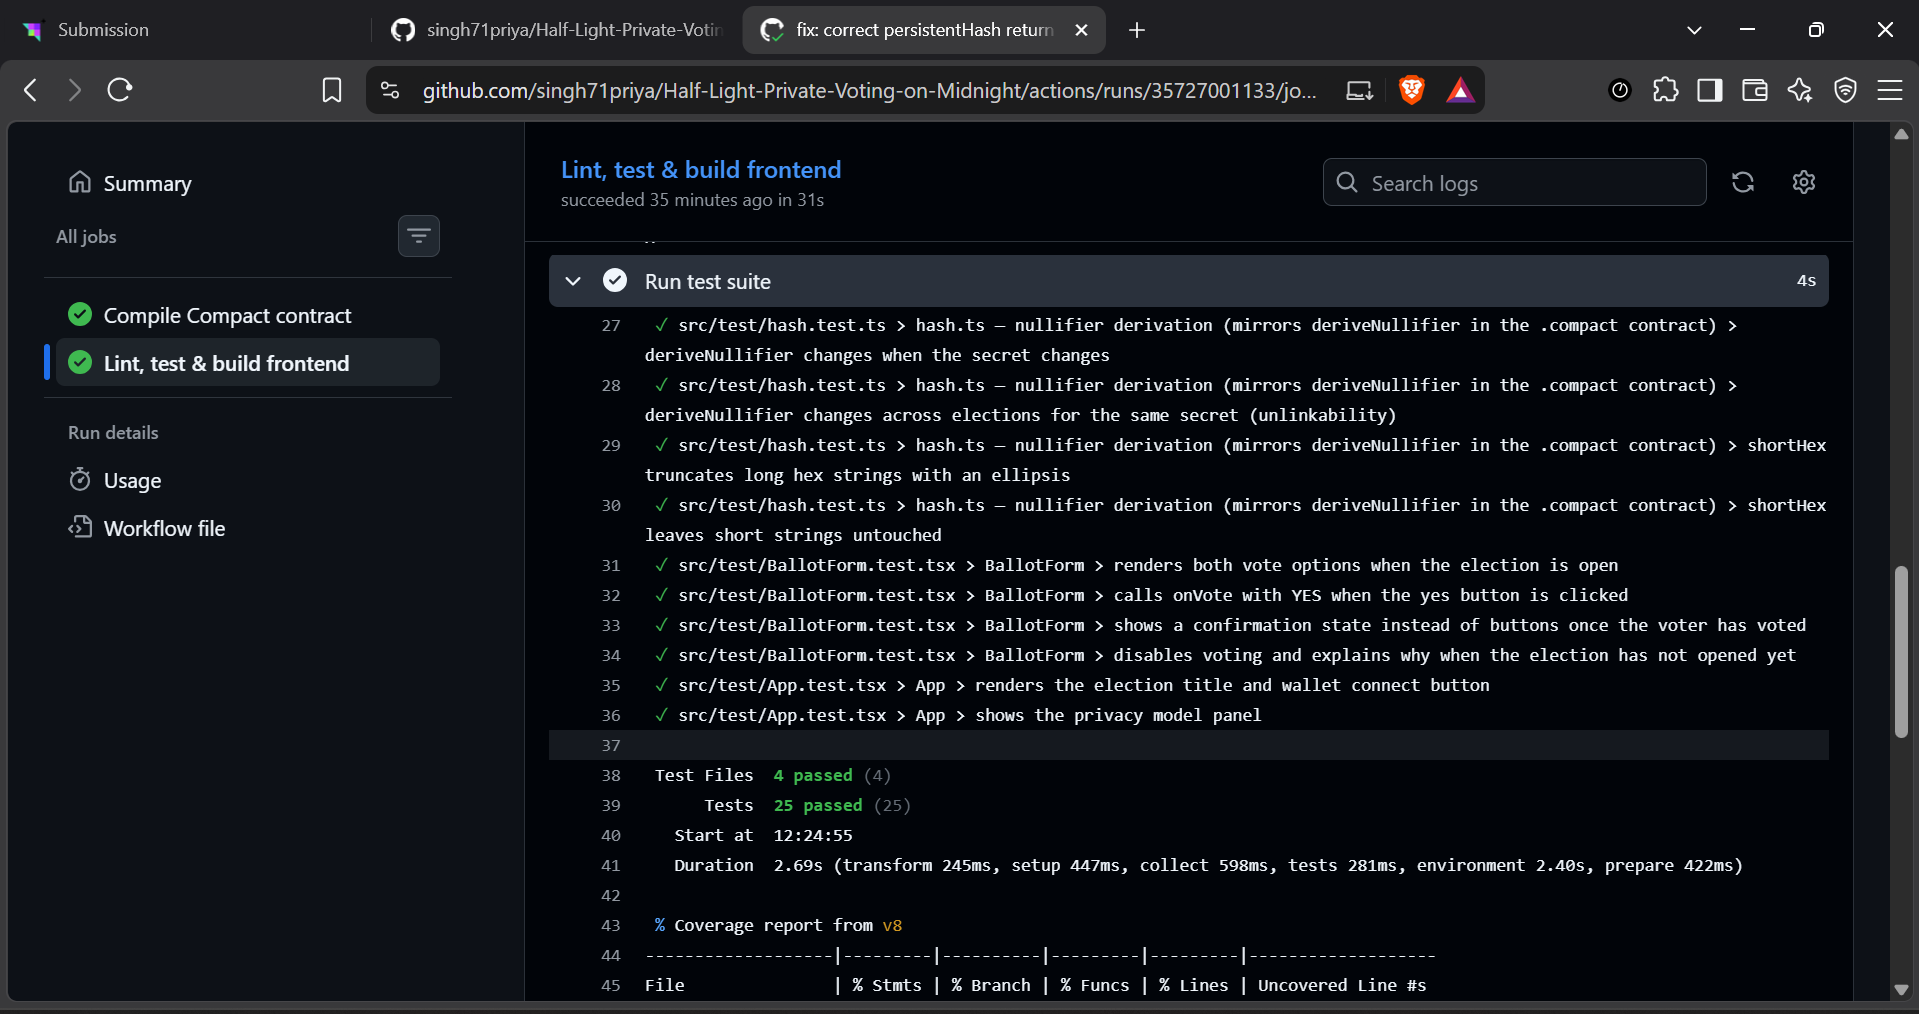
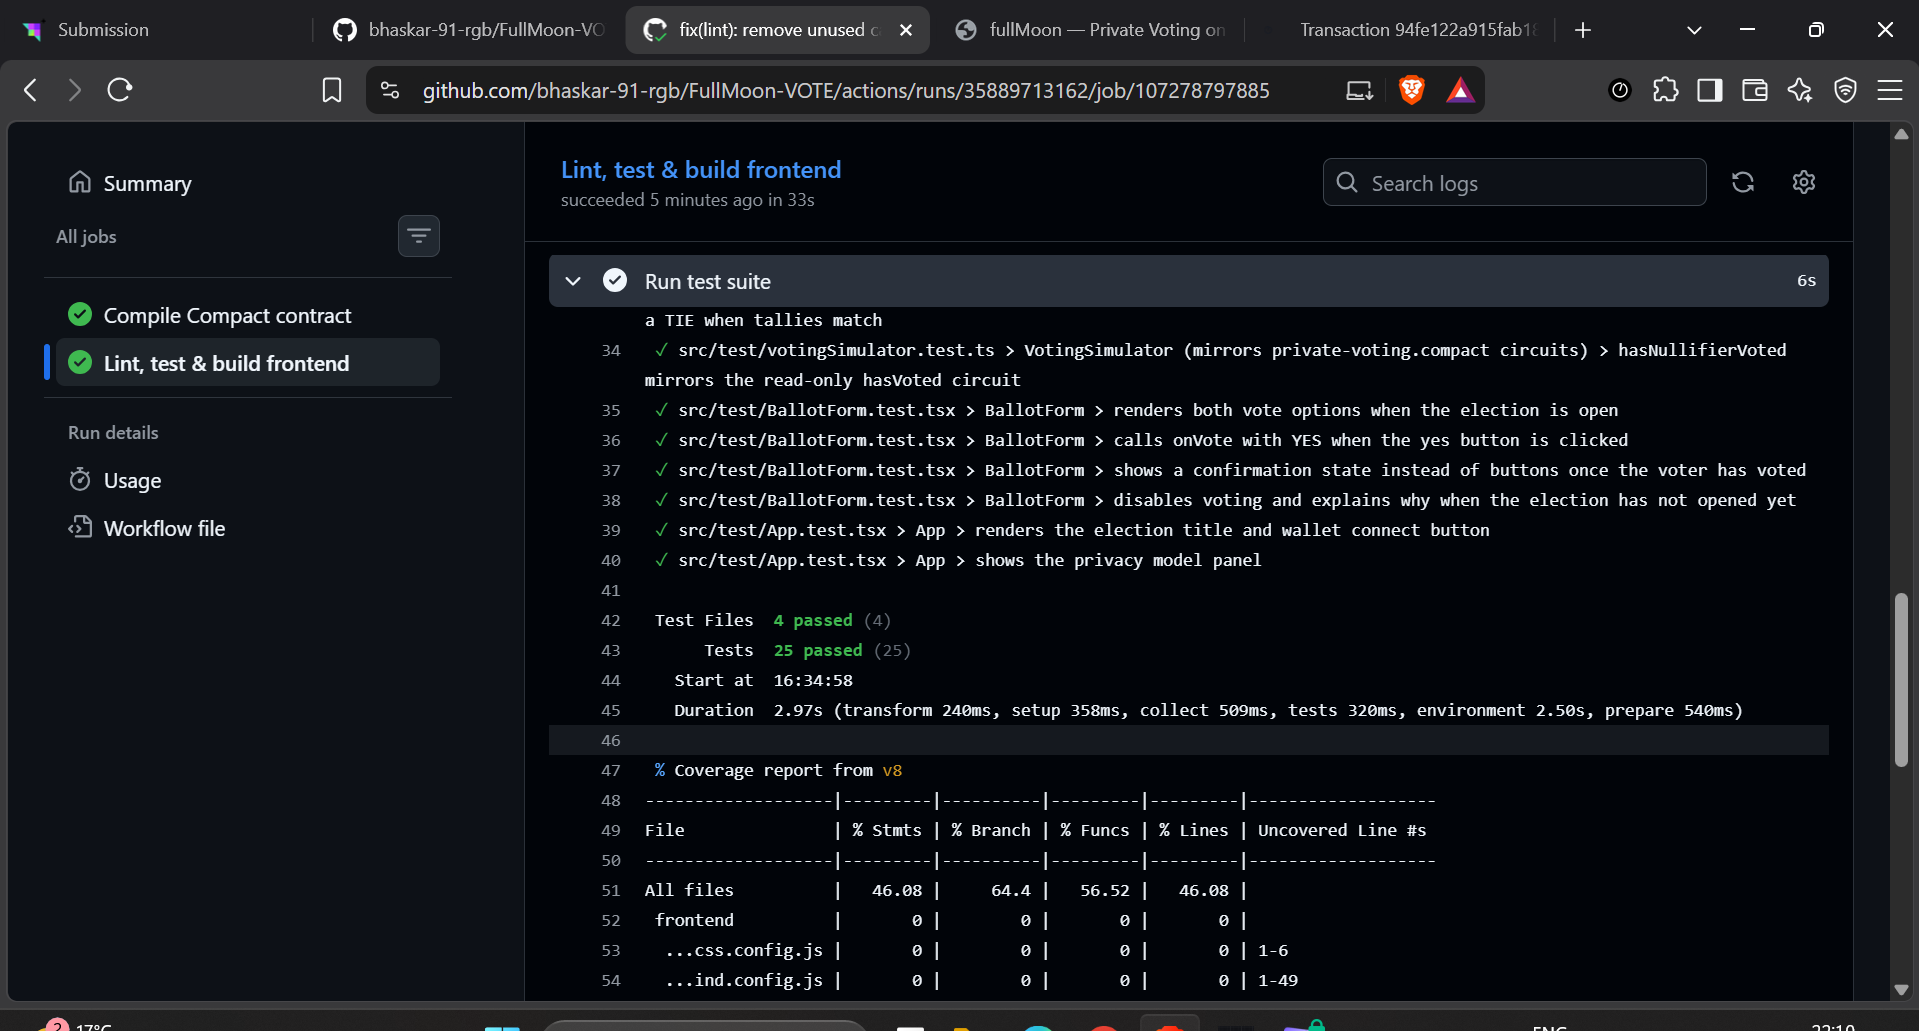
docs: add 4 new screenshots and update README with descriptions

diff --git a/README.md b/README.md
@@ -22,13 +22,16 @@ https://full-moon-vote-frontend.vercel.app/
 
 ## Screenshots
 
-**Product UI:**
+**Product UI — fullMoon voting dashboard with Glassmorphism design:**
 ![Product UI](screenshots/product%20ui.png)
 
-**Contract Address Verification:**
-![Contract Address](screenshots/contract%20address.png)
+**Contract Deployed On-Chain — verified on Midnight Preprod Explorer:**
+![Contract On Chain](screenshots/contract%20on%20chain.png)
 
-**Test Output:**
+**Successful Transaction — openElection ZK proof submitted on Preprod:**
+![Transaction Success](screenshots/transaction%20sucess.png)
+
+**Test Output — all 23 tests passing (circuit logic, state transitions, privacy):**
 ![Test Output](screenshots/test%20output.png)
 
 ## What This Does
